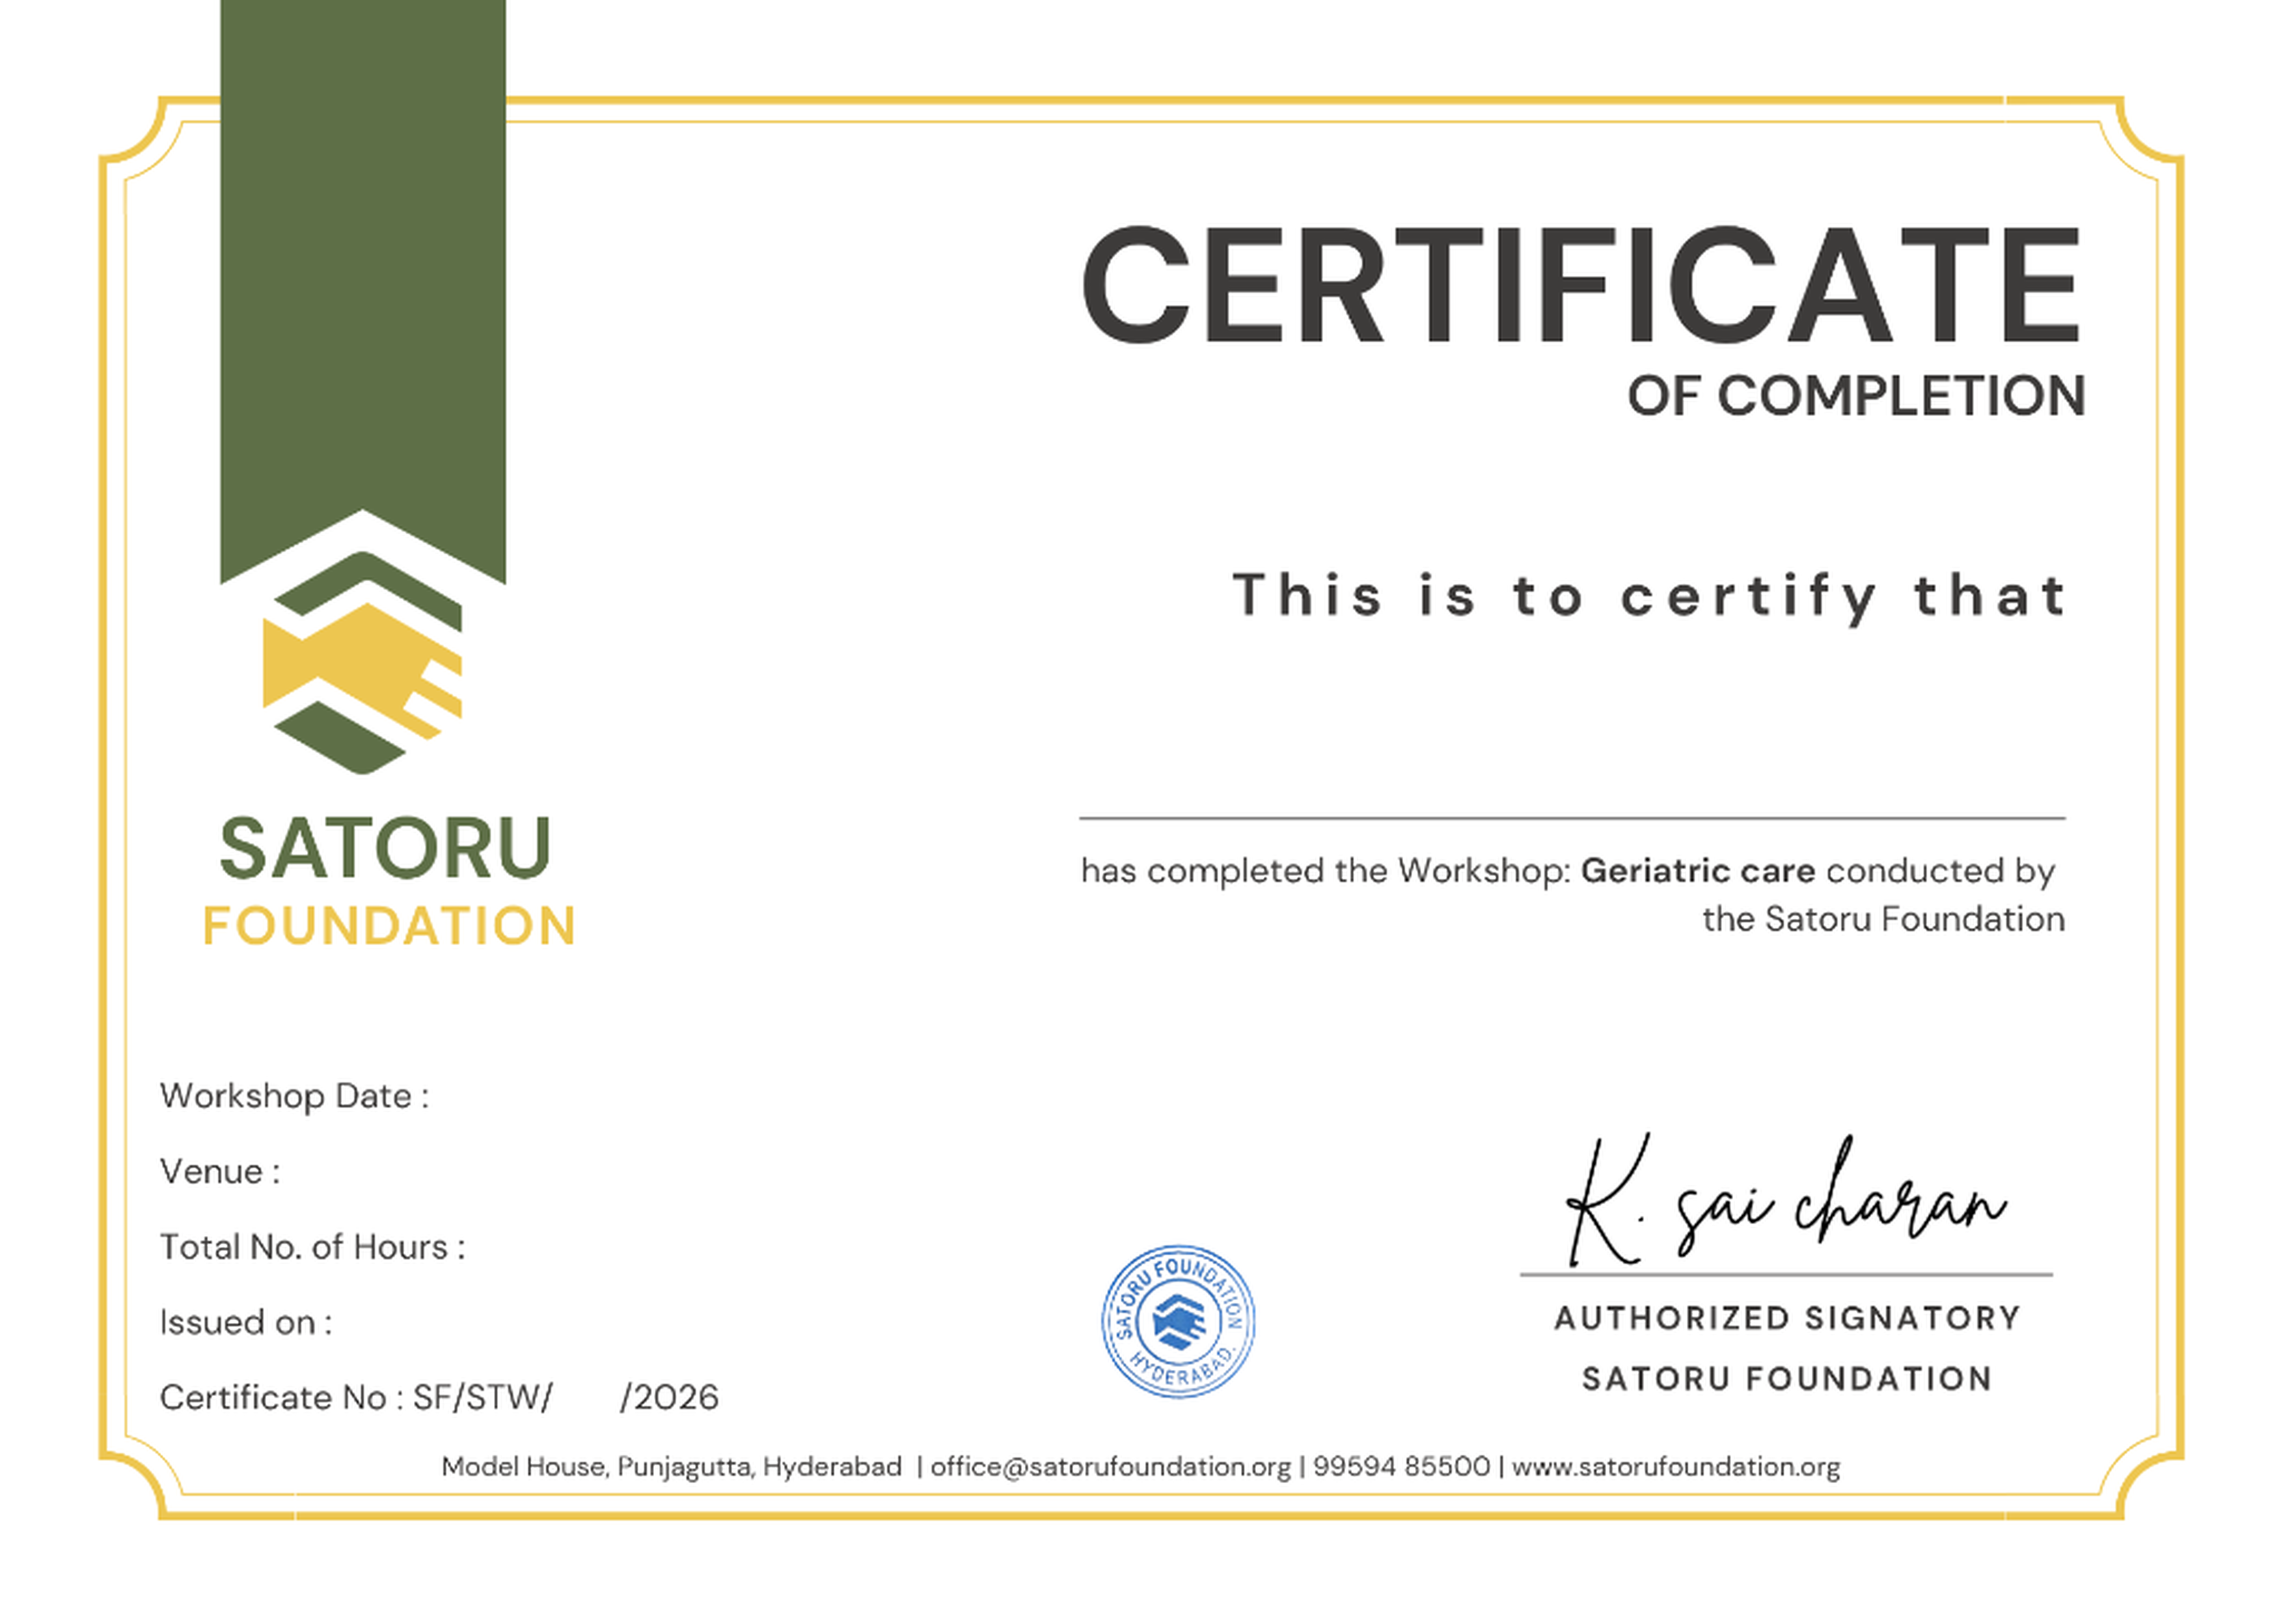
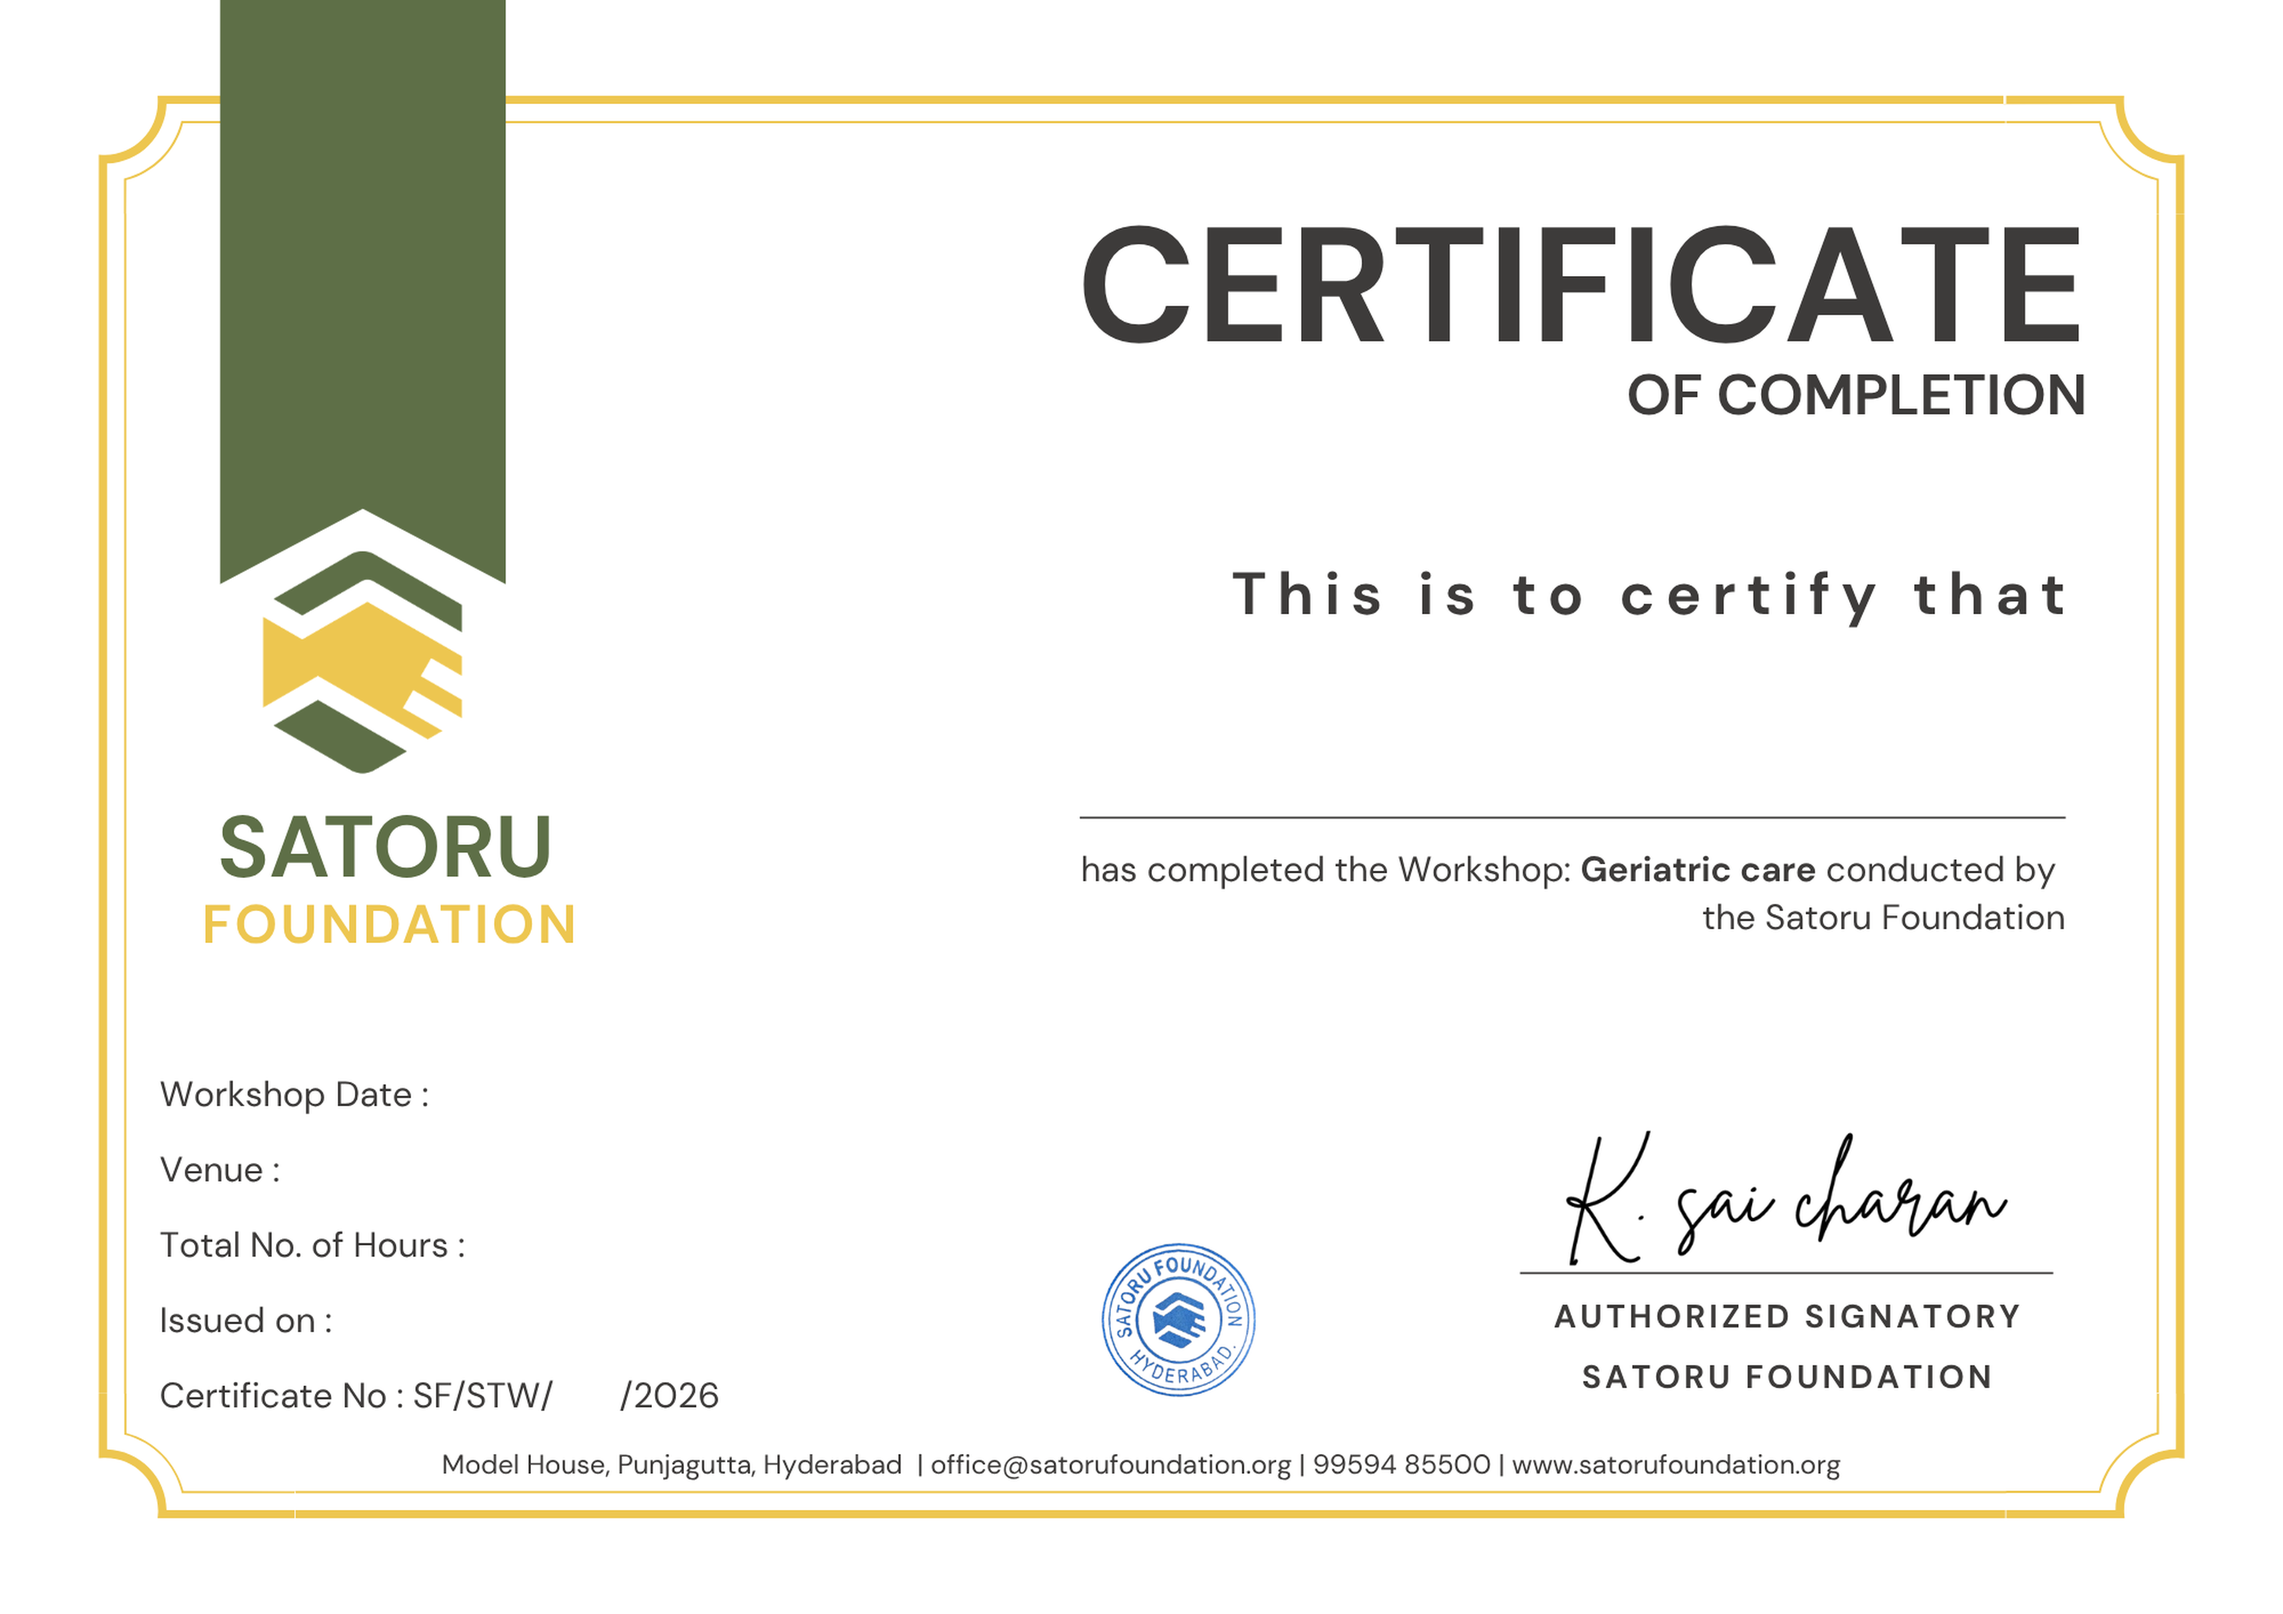
Upgrade Completion and Participation templates to Ultra-HD 300 DPI and update sync_media to overwrite media assets

diff --git a/certs/management/commands/sync_media.py b/certs/management/commands/sync_media.py
@@ -11,6 +11,7 @@ class Command(BaseCommand):
 
     def add_arguments(self, parser):
         parser.add_argument("--generate", action="store_true", help="Also generate PDFs for batches.")
+        parser.add_argument("--batch", type=int, help="Optional batch ID to generate (defaults to all batches).")
 
     def handle(self, *args, **options):
         media_root = Path(settings.MEDIA_ROOT)
@@ -38,16 +39,17 @@ class Command(BaseCommand):
 
         for src_name, dst_path in mappings:
             src_path = base_dir / src_name
-            if src_path.exists() and not dst_path.exists():
+            if src_path.exists():
                 shutil.copy2(src_path, dst_path)
-                self.stdout.write(self.style.SUCCESS(f"Copied {src_name} -> {dst_path}"))
-            elif dst_path.exists():
-                self.stdout.write(f"Already exists: {dst_path}")
+                self.stdout.write(self.style.SUCCESS(f"Synced {src_name} -> {dst_path}"))
             else:
                 self.stdout.write(self.style.WARNING(f"Source asset not found: {src_path}"))
 
         if options["generate"]:
-            for batch in Batch.objects.filter(certificates__isnull=False).distinct().order_by("id"):
+            batches_qs = Batch.objects.filter(certificates__isnull=False).distinct()
+            if options.get("batch"):
+                batches_qs = batches_qs.filter(id=options["batch"])
+            for batch in batches_qs.order_by("id"):
                 if not batch.template or not batch.template.image:
                     self.stdout.write(self.style.WARNING(f"Skipping Batch {batch.id}: no template image"))
                     continue
